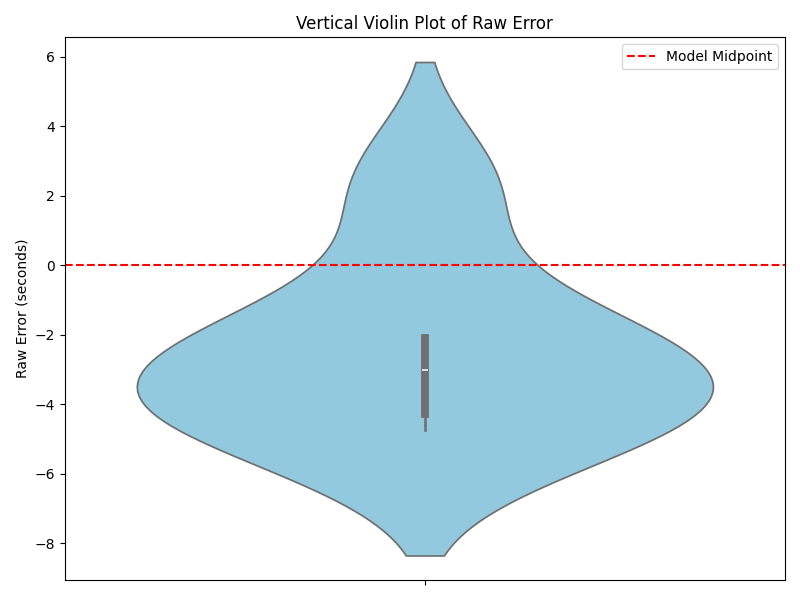
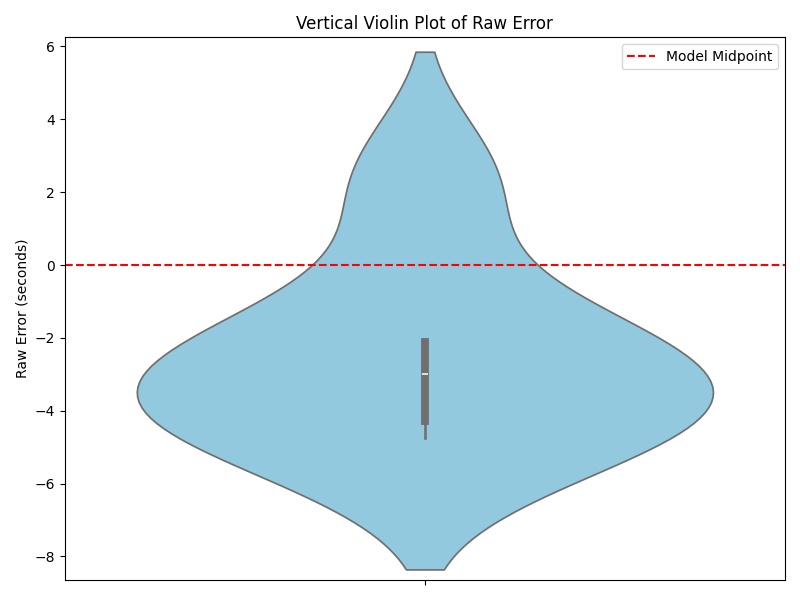
final-results

diff --git a/Statistical-analysis/saliency_maps_plots.py b/Statistical-analysis/saliency_maps_plots.py
@@ -222,8 +222,8 @@ def compute_timestamp_density(timestamps, num_bins, t_min=0, t_max=8.5):
 # Those come from the file clips_saliency_maps.py
 saliency_values_all = np.load('saliency_values_arr.npy', allow_pickle=True)
 saliency_times_all = np.load('salient_time_arr.npy', allow_pickle=True)
-saliency_values_all_TP = np.load('saliency_values_arr_TP.npy', allow_pickle=True)
-saliency_times_all_TP = np.load('saliency_times_arr_TP.npy', allow_pickle=True)
+saliency_values_all_TP = np.load('saliency_values_arr_TN.npy', allow_pickle=True)
+saliency_times_all_TP = np.load('saliency_times_arr_TN.npy', allow_pickle=True)
 print(saliency_values_all.shape)  # (8, 50)
 # smoothed_saliencies_all = np.load('/tudelft.net/staff-umbrella/EleniSalient/Saliency_graphs_per_clip/smoothed_saliencies.npy', allow_pickle=True)
 # salient_time_all = np.load('/tudelft.net/staff-umbrella/EleniSalient/Saliency_graphs_per_clip/salient_time.npy', allow_pickle=True)
@@ -262,7 +262,7 @@ def get_classification_type(row):
 df['Classification_Type'] = df.apply(get_classification_type, axis=1)
 
 # Filter the DataFrame to include only rows where participants correctly identified depression (TP)
-df_tp = df[df['Classification_Type'] == 'TP']
+df_tp = df[df['Classification_Type'] == 'TN']
 
 # Get unique clip IDs from the filtered DataFrame
 unique_clip_ids = df_tp['Clip_ID'].unique()  # e.g., array(['Clip 308', 'Clip 321', ...])
@@ -274,63 +274,11 @@ print("Patient IDs (TP only):", tp_patient_ids)
 
 # We assume that the Excel "Clip_ID" values are like "Clip 1", "Clip 2", ..., "Clip 8".
 # For each clip, we will compute the vote density from the "Selected_Timestamp" column.
-# correlations = []  # to store correlation for each clip
-# clip_list = []     # to store clip IDs for reporting
-
-# # Pearson Correlatin per Clip
-# # 1. Lets start with clips that are TP from the participant and TP salient moments map.
-
-# # Iterate over each clip using the real patient_ids list
-# for clip_id in tp_patient_ids:
-#     # Create the string as it appears in Excel (e.g., "Clip 303")
-#     clip_id_str = f"Clip {clip_id}"
-#     print(f"Processing {clip_id_str}...")
-    
-#     # Get saliency vector for this clip from saliency_values_all.
-#     # We assume that the order in saliency_values_all corresponds to the order in patient_ids.
-#     idx = patient_ids.index(clip_id)
-#     saliency_vec = saliency_values_all_TP[idx, :]  # vector of length num_points
-#     saliency_time_vec = saliency_times_all[idx]  # single salient time
-    
-#     # Filter Excel rows for this clip using the clip string
-#     df_clip = df_tp[df_tp['Clip_ID'] == clip_id_str]
-    
-#     # Convert "Selected_Timestamp" to floats
-#     timestamps = df_clip['Selected_Timestamp'].astype(float).tolist()
-#     if len(timestamps) == 0:
-#         print(f"  No participant timestamps for {clip_id_str}. Skipping.")
-#         continue
-    
-#     # Compute density using the single timestamps.
-#     # We use the same number of bins as the saliency vector length.
-#     density_vec = compute_timestamp_density(timestamps, num_bins=num_points, t_min=0, t_max=8.5)
-    
-#     # Compute Pearson correlation between saliency and density, if lengths match
-#     if len(saliency_vec) == len(density_vec):
-#         # Compute Pearson correlation between saliency and density, if lengths match
-#         # Convert saliency_vec to a float array explicitly.
-#         saliency_vec = np.array(saliency_vec, dtype=float)
-#         # First, create a mask to filter out NaN values in saliency_vec
-#         mask = ~np.isnan(saliency_vec)
-#         if np.sum(mask) < 2:
-#             print(f"Not enough valid data for {clip_id_str}. Skipping.")
-#             continue
-
-#         valid_saliency_vec = saliency_vec[mask]
-#         valid_density_vec = density_vec[mask]
-#         corr, _ = pearsonr(valid_saliency_vec, valid_density_vec)
-#         correlations.append(corr)
-#         clip_list.append(clip_id_str)
-#         print(f"  {clip_id_str} correlation = {corr:.3f}")
-#     else:
-#         print(f"  Length mismatch for {clip_id_str}: {len(saliency_vec)} vs {len(density_vec)}. Skipping.")
-
-# # Optionally, print overall results
-# print("Processed clips:", clip_list)
-# print("Correlations:", correlations)
-
-correlations = []  # to store point-biserial correlation for each clip
+correlations = []  # to store correlation for each clip
 clip_list = []     # to store clip IDs for reporting
+pvalues = []
+# Pearson Correlatin per Clip
+# 1. Lets start with clips that are TP from the participant and TP salient moments map.
 
 # Iterate over each clip using the real patient_ids list
 for clip_id in tp_patient_ids:
@@ -342,7 +290,7 @@ for clip_id in tp_patient_ids:
     # We assume that the order in saliency_values_all corresponds to the order in patient_ids.
     idx = patient_ids.index(clip_id)
     saliency_vec = saliency_values_all_TP[idx, :]  # vector of length num_points
-    saliency_time_vec = saliency_times_all[idx]     # single salient time (if needed)
+    saliency_time_vec = saliency_times_all[idx]  # single salient time
     
     # Filter Excel rows for this clip using the clip string
     df_clip = df_tp[df_tp['Clip_ID'] == clip_id_str]
@@ -357,34 +305,88 @@ for clip_id in tp_patient_ids:
     # We use the same number of bins as the saliency vector length.
     density_vec = compute_timestamp_density(timestamps, num_bins=num_points, t_min=0, t_max=8.5)
     
-    # Convert density vector to a binary vector:
-    # 1 if at least one timestamp falls in that bin, 0 otherwise.
-    binary_vec = np.array([1 if count > 0 else 0 for count in density_vec])
-    
-    # Ensure saliency_vec is a numpy array of floats.
-    saliency_vec = np.array(saliency_vec, dtype=float)
-    
-    # Create a mask for non-NaN saliency values.
-    mask = ~np.isnan(saliency_vec)
-    if np.sum(mask) < 2:
-        print(f"Not enough valid data for {clip_id_str}. Skipping.")
-        continue
+    # Compute Pearson correlation between saliency and density, if lengths match
+    if len(saliency_vec) == len(density_vec):
+        # Compute Pearson correlation between saliency and density, if lengths match
+        # Convert saliency_vec to a float array explicitly.
+        saliency_vec = np.array(saliency_vec, dtype=float)
+        # First, create a mask to filter out NaN values in saliency_vec
+        mask = ~np.isnan(saliency_vec)
+        if np.sum(mask) < 2:
+            print(f"Not enough valid data for {clip_id_str}. Skipping.")
+            continue
 
-    valid_saliency_vec = saliency_vec[mask]
-    valid_binary_vec = binary_vec[mask]
-    
-    # Compute the point-biserial correlation.
-    corr, _ = pointbiserialr(valid_binary_vec, valid_saliency_vec)
-    correlations.append(corr)
-    clip_list.append(clip_id_str)
-    print(f"  {clip_id_str} point-biserial correlation = {corr:.3f}")
+        valid_saliency_vec = saliency_vec[mask]
+        valid_density_vec = density_vec[mask]
+        corr, p_val = pearsonr(valid_saliency_vec, valid_density_vec)
+        correlations.append(corr)
+        pvalues.append(p_val)
+        clip_list.append(clip_id_str)
+        print(f"  {clip_id_str} correlation = {corr:.3f}")
+    else:
+        print(f"  Length mismatch for {clip_id_str}: {len(saliency_vec)} vs {len(density_vec)}. Skipping.")
 
 # Optionally, print overall results
 print("Processed clips:", clip_list)
-print("Point-biserial correlations:", correlations)
+print("Correlations:", correlations)
+print("P-Values:", pvalues)
+
+# correlations = []  # to store point-biserial correlation for each clip
+# clip_list = []     # to store clip IDs for reporting
+
+# # Iterate over each clip using the real patient_ids list
+# for clip_id in tp_patient_ids:
+#     # Create the string as it appears in Excel (e.g., "Clip 303")
+#     clip_id_str = f"Clip {clip_id}"
+#     print(f"Processing {clip_id_str}...")
+    
+#     # Get saliency vector for this clip from saliency_values_all.
+#     # We assume that the order in saliency_values_all corresponds to the order in patient_ids.
+#     idx = patient_ids.index(clip_id)
+#     saliency_vec = saliency_values_all_TP[idx, :]  # vector of length num_points
+#     saliency_time_vec = saliency_times_all[idx]     # single salient time (if needed)
+    
+#     # Filter Excel rows for this clip using the clip string
+#     df_clip = df_tp[df_tp['Clip_ID'] == clip_id_str]
+    
+#     # Convert "Selected_Timestamp" to floats
+#     timestamps = df_clip['Selected_Timestamp'].astype(float).tolist()
+#     if len(timestamps) == 0:
+#         print(f"  No participant timestamps for {clip_id_str}. Skipping.")
+#         continue
+    
+#     # Compute density using the single timestamps.
+#     # We use the same number of bins as the saliency vector length.
+#     density_vec = compute_timestamp_density(timestamps, num_bins=num_points, t_min=0, t_max=8.5)
+    
+#     # Convert density vector to a binary vector:
+#     # 1 if at least one timestamp falls in that bin, 0 otherwise.
+#     binary_vec = np.array([1 if count > 0 else 0 for count in density_vec])
+    
+#     # Ensure saliency_vec is a numpy array of floats.
+#     saliency_vec = np.array(saliency_vec, dtype=float)
+    
+#     # Create a mask for non-NaN saliency values.
+#     mask = ~np.isnan(saliency_vec)
+#     if np.sum(mask) < 2:
+#         print(f"Not enough valid data for {clip_id_str}. Skipping.")
+#         continue
+
+#     valid_saliency_vec = saliency_vec[mask]
+#     valid_binary_vec = binary_vec[mask]
+    
+#     # Compute the point-biserial correlation.
+#     corr, _ = pointbiserialr(valid_binary_vec, valid_saliency_vec)
+#     correlations.append(corr)
+#     clip_list.append(clip_id_str)
+#     print(f"  {clip_id_str} point-biserial correlation = {corr:.3f}")
+
+# # Optionally, print overall results
+# print("Processed clips:", clip_list)
+# print("Point-biserial correlations:", correlations)
 
 # Suppose you want to plot the saliency map for a specific clip, e.g., "Clip 303"
-target_clip_id = 344
+target_clip_id = 490
 clip_index = patient_ids.index(target_clip_id)  # Find its index in the patient_ids list
 clip_title = f"Clip {target_clip_id}"  # Title for the plot
 
@@ -425,14 +427,14 @@ x_new = np.linspace(time_axis[0], time_axis[-1], 200)  # 200 points
 spline = make_interp_spline(valid_time, valid_saliency, k=3)
 saliency_smooth = spline(x_new)
 
-df_clip = df[df['Clip_ID'] == 'Clip 344']
+df_clip = df[df['Clip_ID'] == 'Clip 490']
 print(df_clip)
 selected_timestamps = df_clip['Selected_Timestamp'].astype(float).tolist()
 print(selected_timestamps)
 # 3) Plot the smoothed curve
 plt.figure(figsize=(10, 5))
 plt.plot(time_axis, saliency_vec, 'o', color='darkslategrey', alpha=0.4, label='Original Points')
-plt.plot(x_new, saliency_smooth, color='darkslategrey', linestyle='-', label='Smoothed Saliency')
+plt.plot(x_new, saliency_smooth, color='goldenrod', linestyle='-', label='Smoothed Saliency')
 plt.xlabel("Time (seconds)")
 plt.ylabel("Saliency Score")
 plt.title("Smoothed Saliency Map (Cubic Spline)")

diff --git a/Simpler-model/preprocessing_presegment.py b/Simpler-model/preprocessing_presegment.py
@@ -7,6 +7,8 @@ import pandas as pd
 from sklearn.preprocessing import MinMaxScaler
 import pickle
 from scipy.io import wavfile
+import matplotlib.pyplot as plt
+
 
 
 def preprocess_audio(audio,sr):
@@ -106,7 +108,8 @@ for number in numbers:
 
     # EXTRACT AUDIO
     try:
-        audio, sr = librosa.load(file_audio, sr=None)    
+        audio, sr = librosa.load(file_audio, sr=None)  
+
     except FileNotFoundError as e:
         print(f"Audio file not found for number {number}: {e}")
         if number in labels_dict:
@@ -165,6 +168,37 @@ for number in numbers:
     audio_start_idx = int(visual_start_time * sr)
     audio_end_idx = int(visual_end_time * sr)
     audio = audio[audio_start_idx:audio_end_idx + 1]
+    # # Create a plot with a specific size
+    # plt.figure(figsize=(12, 4))
+
+    # # Plot the waveform
+    # librosa.display.waveshow(audio, sr=sr)
+    # plt.title('Audio Signal Waveform')
+    # plt.xlabel('Time (s)')
+    # plt.ylabel('Amplitude') 
+    # plt.savefig(f'../../../tudelft.net/staff-umbrella/EleniSalient/Audio_waveform.png')
+    # plt.close() 
+    
+    # PLot another waveform more zoomed in with seconds in x axis
+    # 2. Create a time axis in seconds
+    duration = librosa.get_duration(y=audio, sr=sr)  # Total length in seconds
+    time = np.linspace(0, duration, len(audio))      # Create a time array from 0 to 'duration'
+
+    # 3. Plot the waveform using time in seconds
+    plt.figure(figsize=(10, 4))
+    plt.plot(time, audio)
+    plt.xlabel("Time (seconds)")
+    plt.ylabel("Amplitude")
+    plt.title("Signal of raw .wav audio file from patient 300")
+
+    # 4. (Optional) Zoom in on a smaller portion of the waveform, e.g., the first 1 second
+    # Comment this line out if you want the full waveform.
+    plt.xlim(213.0, 213.2)  # Adjust the range to zoom in on the first second
+
+    plt.tight_layout()
+    plt.savefig(f'../../../tudelft.net/staff-umbrella/EleniSalient/Audio_waveform_zoomed.png')
+
+    print(1/0)
 
     # Now, both `visual` and `audio` are aligned to start and end at the same timestamps
     # print(f"Trimmed visual start time: {visual[0, 1]} seconds")
@@ -210,6 +244,7 @@ for number in numbers:
 
     # TODO: check it out
     preprocessed_audio = preprocess_audio(final_audio,sr)
+    preprocessed_audio = preprocess_audio(audio,sr)
 
     # Step 2: Calculate Mel-spectrogram for the final_audio
     n_fft = int(0.025 * sr)  # Window length: 25 ms
@@ -252,12 +287,21 @@ for number in numbers:
         start_frame += frames_per_stride
 
     # Visualize the first segment
-    # plt.figure(figsize=(10, 4))
-    # librosa.display.specshow(mel_segments[620], sr=sr, hop_length=hop_length, x_axis='time', y_axis='mel')
-    # plt.colorbar(format='%+2.0f dB')
-    # plt.title('Log-Mel Spectrogram for 1st 3.5s Segment (Sliding Window)')
-    # plt.tight_layout()
-    # plt.show()
+    plt.figure(figsize=(10, 4))
+    librosa.display.specshow(mel_segments[620], sr=sr, hop_length=hop_length, x_axis='time', y_axis='mel')
+    plt.colorbar(format='%+2.0f dB')
+    plt.title('Log-Mel Spectrogram for 1st 3.5s Segment (Sliding Window)')
+    plt.tight_layout()
+    plt.savefig(f'../../../tudelft.net/staff-umbrella/EleniSalient/Log_mel_segment.png')
+    plt.close()
+
+    plt.figure(figsize=(10, 4))
+    librosa.display.specshow(log_mel_spectrogram, sr=sr, hop_length=hop_length, x_axis='time', y_axis='mel')
+    plt.colorbar(format='%+2.0f dB')
+    plt.title('Log-Mel Spectrogram for Patient 300')
+    plt.tight_layout()
+    plt.savefig(f'../../../tudelft.net/staff-umbrella/EleniSalient/Log_mel.png')
+    plt.close()
 
     # Step 5: Check number of segments and shapes
     # print(f"Number of segments: {len(mel_segments)}")

diff --git a/Statistical-analysis/matching_saliency.py b/Statistical-analysis/matching_saliency.py
@@ -129,13 +129,27 @@ print(global_summary)
 
 
 # ----------------- Violin plot for Raw error instead of the Box plot for MAE -----------------
-tp_data = data[(data["Clip_Type"] == "TN") & (data["Classification_Type"] == "TN")]
-tp_data["RawError"] = tp_data["Selected_Timestamp"] - tp_data["Model_Mid"]
+data["RawError"] = data["Selected_Timestamp"] - data["Model_Mid"]
+
+tp_tp_data = data[(data["Clip_Type"] == "TP") & (data["Classification_Type"] == "TP")]
+tp_fn_data = data[(data["Clip_Type"] == "FN") & (data["Classification_Type"] == "TP")]
+tn_tn_data = data[(data["Clip_Type"] == "TN") & (data["Classification_Type"] == "TN")]
+tn_fp_data = data[(data["Clip_Type"] == "FP") & (data["Classification_Type"] == "TN")]
+
+# tp_data = data[(data["Clip_Type"] == "TN") & (data["Classification_Type"] == "TN")]
+
+# tp_data["RawError"] = tp_data["Selected_Timestamp"] - tp_data["Model_Mid"]
+
+# Determine the global minimum and maximum of RawError across all datasets
+global_min = min(df["RawError"].min() for df in [tp_tp_data, tp_fn_data, tn_tn_data, tn_fp_data])
+global_max = max(df["RawError"].max() for df in [tp_tp_data, tp_fn_data, tn_tn_data, tn_fp_data])
+
+print(global_min, global_max)
 
 plt.figure(figsize=(8, 6))
 # Plot a vertical violin plot: the y-axis is RawError.
-sns.violinplot(y="RawError", data=tp_data, color="skyblue")
-
+sns.violinplot(y="RawError", data=tn_fp_data, color="skyblue")
+plt.ylim(global_min-2, global_max+4)
 # Add a horizontal line at y=0 (the model’s midpoint)
 plt.axhline(y=0, color="red", linestyle="--", label="Model Midpoint")
 
@@ -145,6 +159,7 @@ plt.legend()
 plt.tight_layout()
 plt.show()
 
+# ----------------------------------------------------------------------------------------------------
 # ----------------------------------------------------------------------------------------------------
 tn_tn_data = data[
     (data["Clip_Type"] == "TN") & 
